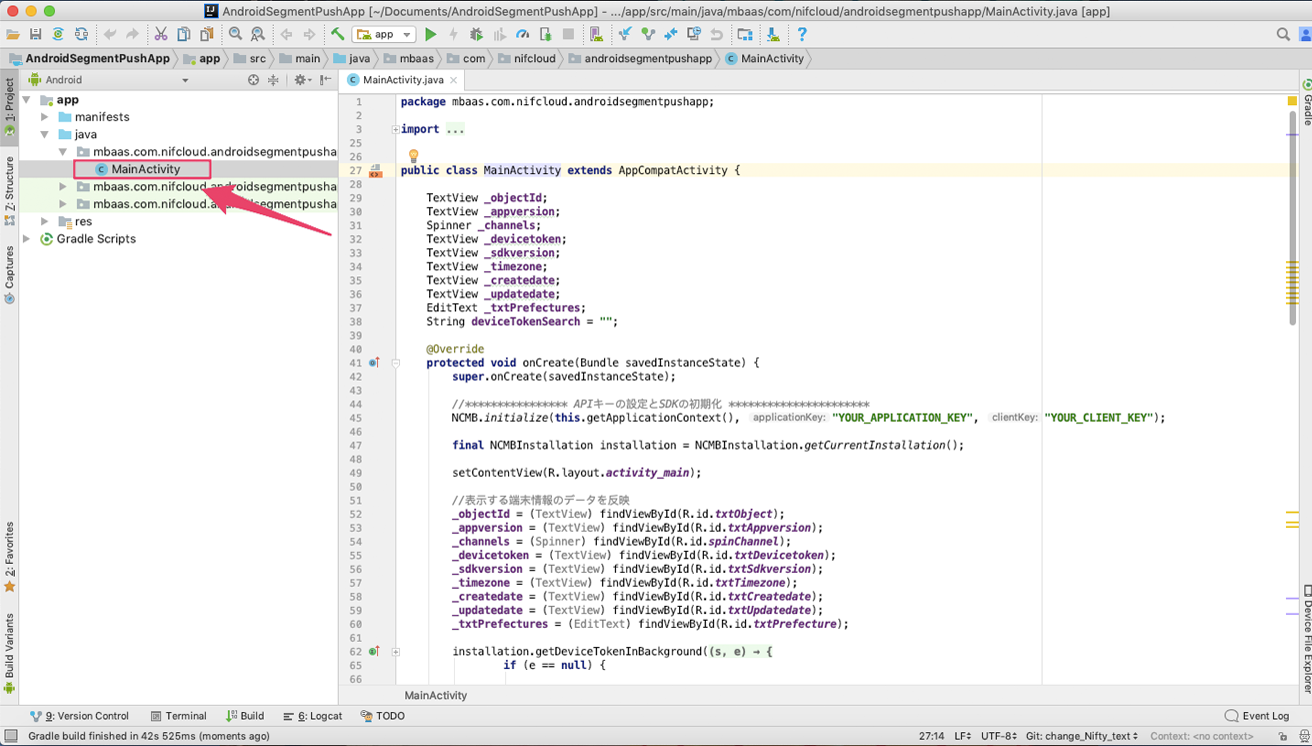
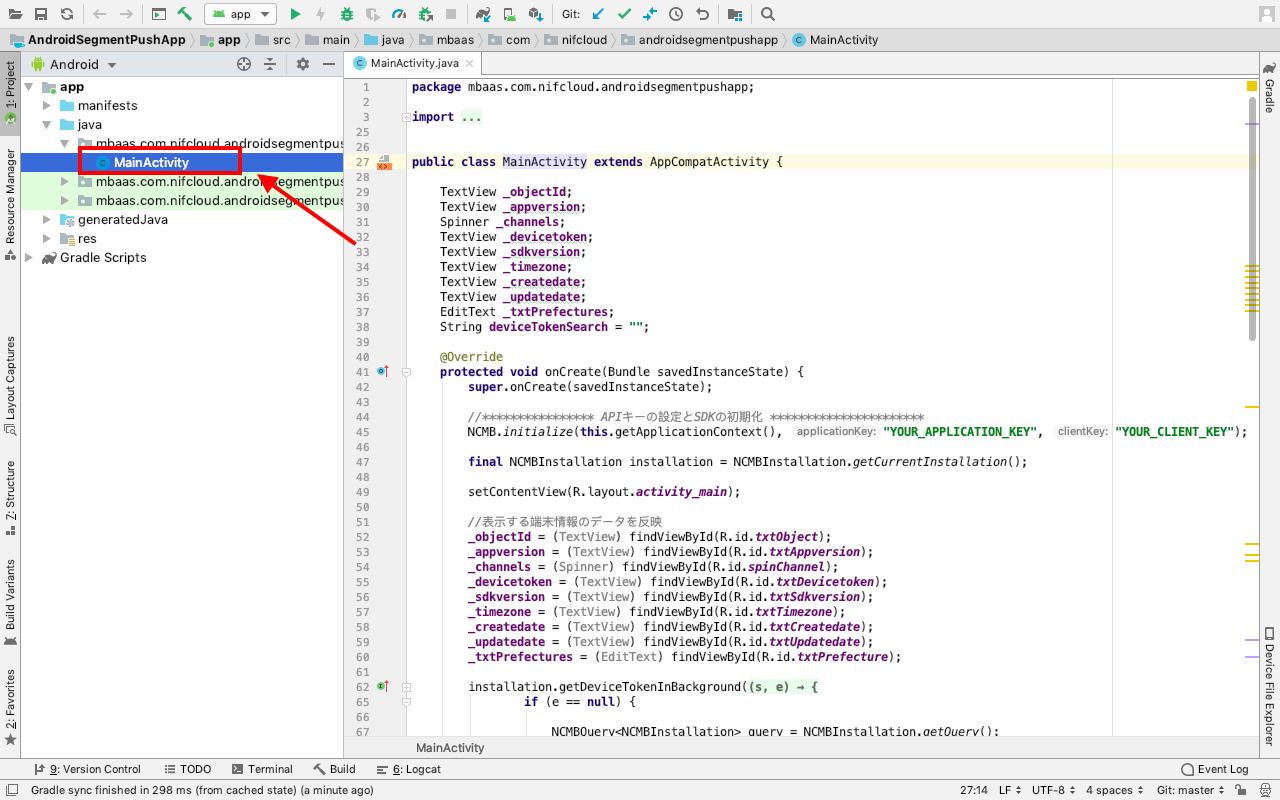
upgrade ncmb android sdk version and upgrade gradle

diff --git a/README.md b/README.md
@@ -17,9 +17,9 @@
 
 ## 動作環境
 
-* Android Studio ver. 3.1  
+* Android Studio ver. 3.4.1  
 * Android 6.0  
-* Android SDK v3  
+* Android SDK v3.0.2  
    * SDK v2系だと動作しないので注意  
 
 ※このサンプルアプリは、プッシュ通知を受信する必要があるため実機ビルドが必要です<br>  
@@ -187,7 +187,7 @@
 
 ```java
 //**************** APIキーの設定とSDKの初期化 **********************
-       NCMB.initialize(this, "YOUR_APPLICATION_KEY", "YOUR_CLIENT_KEY");
+       NCMB.initialize(this.getApplicationContext(), "YOUR_APPLICATION_KEY", "YOUR_CLIENT_KEY");
 
        final NCMBInstallation installation = NCMBInstallation.getCurrentInstallation();
 
